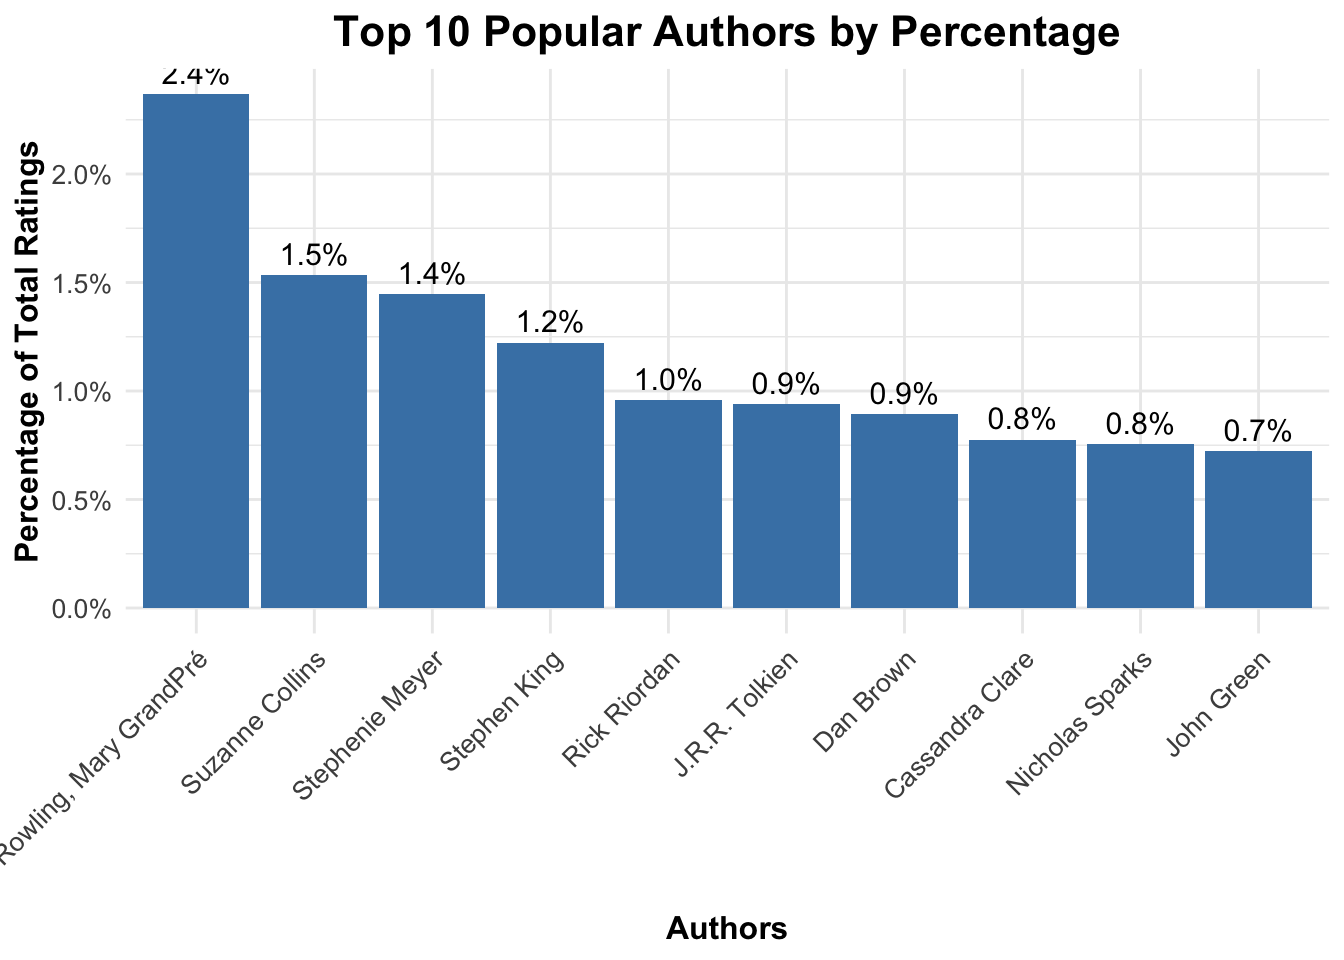
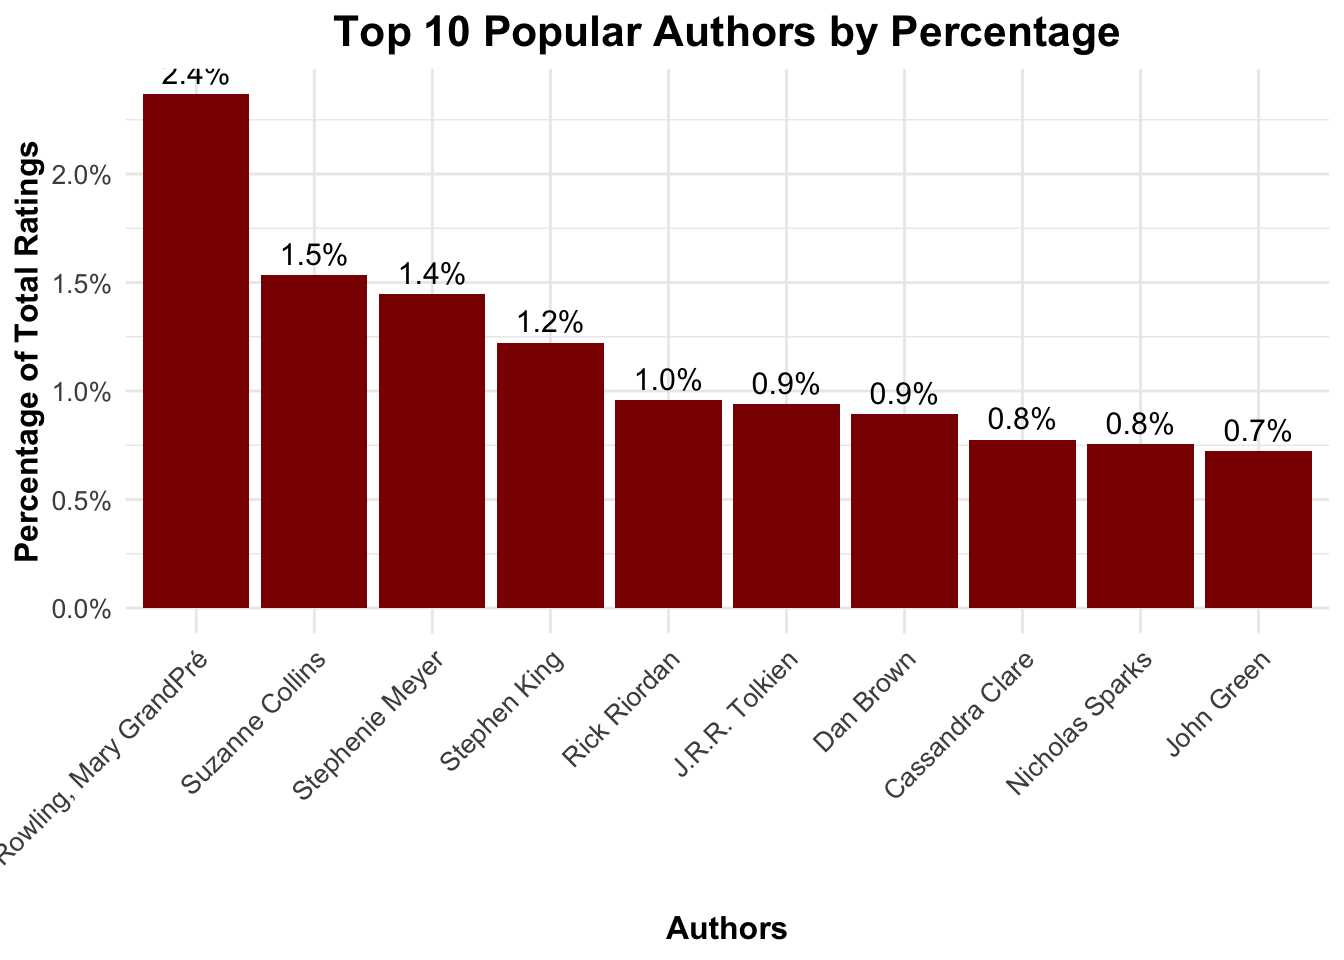
KB

Changed region(s): [[0.0938, 0.0938, 1.0, 0.6562]]

diff --git a/popular_authors.html b/popular_authors.html
@@ -326,7 +326,7 @@ $(document).ready(function () {
 <div id="displaying-popular-authors" class="section level3">
 <h3>Displaying Popular Authors</h3>
 <pre class="r"><code>ggplot(most_read_authors, aes(x = reorder(authors, -percentage), y = percentage)) +
-  geom_bar(stat = &quot;identity&quot;, fill = &quot;steelblue&quot;) +
+  geom_bar(stat = &quot;identity&quot;, fill = &quot;darkred&quot;) +
   geom_text(aes(label = sprintf(&quot;%.1f%%&quot;, percentage)), vjust = -0.5, size = 4) + # Add percentage labels
   labs(
     title = &quot;Top 10 Popular Authors by Percentage&quot;,
